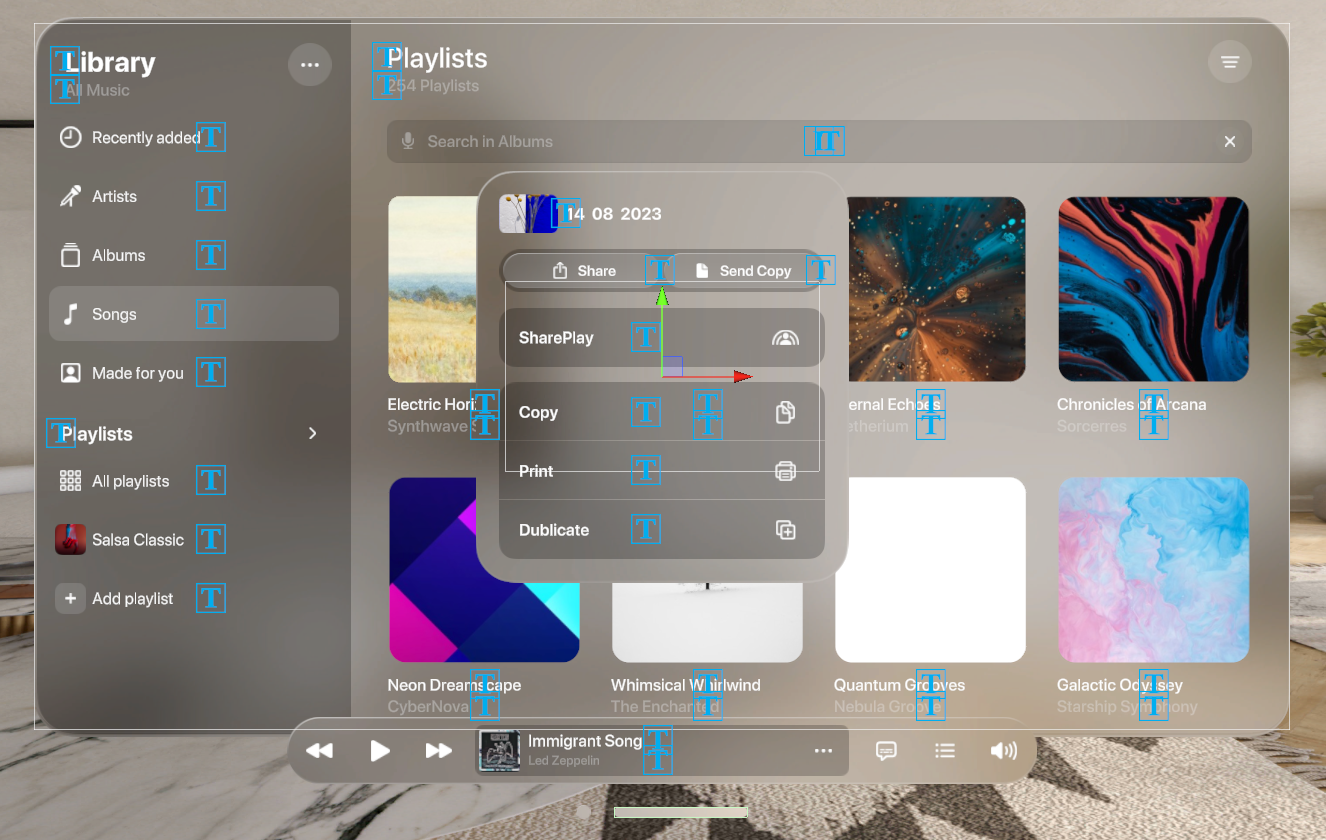
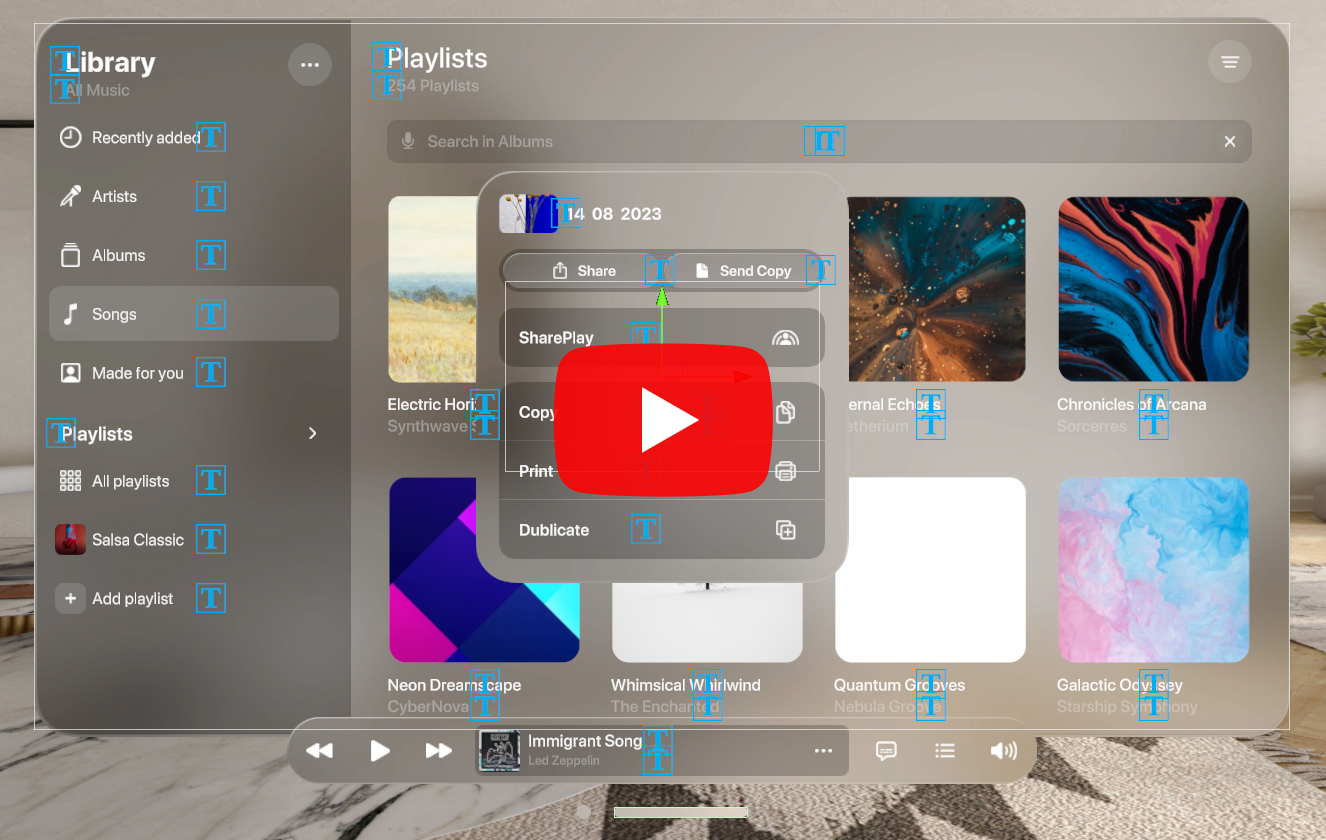
Update README.md

Changed region(s): [[0.402, 0.4024, 0.5875, 0.619]]

diff --git a/README.md b/README.md
@@ -19,8 +19,8 @@ Just download this UI kit (it’s based on the official Apple Figma kit) to buil
 This Unity UI kit will give you an opportunity to: 
 
 + Create a functional app prototype
-+ See how it behaves in VR 
-+ Test it on real users 
++ See how it behaves in spatial environment (aka "VR")
++ Test it on real users
 + Experiment and improve it, so that it’s perfect by the time Vision Pro is out.
 
 <a href="https://www.youtube.com/watch?v=D28MGn96O3c">Watch our video on YouTube</a>
@@ -29,6 +29,9 @@ This Unity UI kit will give you an opportunity to:
     <img alt="Apple Vision Pro UI Kit Video" src="./Documentation~/Video_Preview.png">
   </a>
 </p>
+
+## System Requirements
+Unity **2021.3.30f1** or later versions.
 
 ## Installation
 1. You can install it with **Package Manager** > **+** > **Add package from git URL...**
@@ -41,6 +44,7 @@ https://github.com/jetstyle/Apple-Vision-Pro-UI-Kit.git
 ```
 "com.jetxr.visionui": "https://github.com/jetstyle/Apple-Vision-Pro-UI-Kit.git"
 ```
+
 3. You can also download it from the Asset Store (a link will appear here soon)
 
 4. Prepared demo project for Meta Quest is avaliable [here](https://github.com/jetstyle/Apple-Vision-Pro-UI-Kit-Demo)
@@ -48,12 +52,38 @@ https://github.com/jetstyle/Apple-Vision-Pro-UI-Kit.git
 ## How to use it?
 Our package provides a collection of UI elements that can be added to a scene using the GameObject context menu.
 
-<img alt="GameObject Context Menu" width="750" src="./Documentation~/GameObject_Context_Menu.png">
+<img alt="GameObject Context Menu" width = "750px" src="./Documentation~/GameObject_Context_Menu.png">
+
+A small gif with the process of working with our package:
+<p align="center">
+  <img alt="Editor Gif" src="./Documentation~/Editor_Example.gif">
+</p>
+
+## Showcases
+Demonstration of interfaces based on our package (captured on Meta Quest 2 with our panorama):
+<p align="center">
+  <img src="./Documentation~/Player_Example_1.png" width="49%" />
+  <img src="./Documentation~/Player_Example_3.png" width="49%" />
+</p>
+
+<p align="center">
+  <img src="./Documentation~/Player_Example_4.png" width="49%" />
+  <img src="./Documentation~/Player_Example_2.png" width="49%" />
+</p>
 
 ## UI Elements List
 
 <p align="center">
   <img alt="UI Elements" src="./Documentation~/UI_Elements.png">
+</p>
+
+<p align="center">
+  <img src="./Documentation~/UI_Elements_2.png" width="49%" />
+  <img src="./Documentation~/UI_Elements_1.png" width="49%" />
+</p>
+
+<p align="center">
+  <img alt="UI Elements 3" src="./Documentation~/UI_Elements_3.png">
 </p>
 
 1. Buttons
